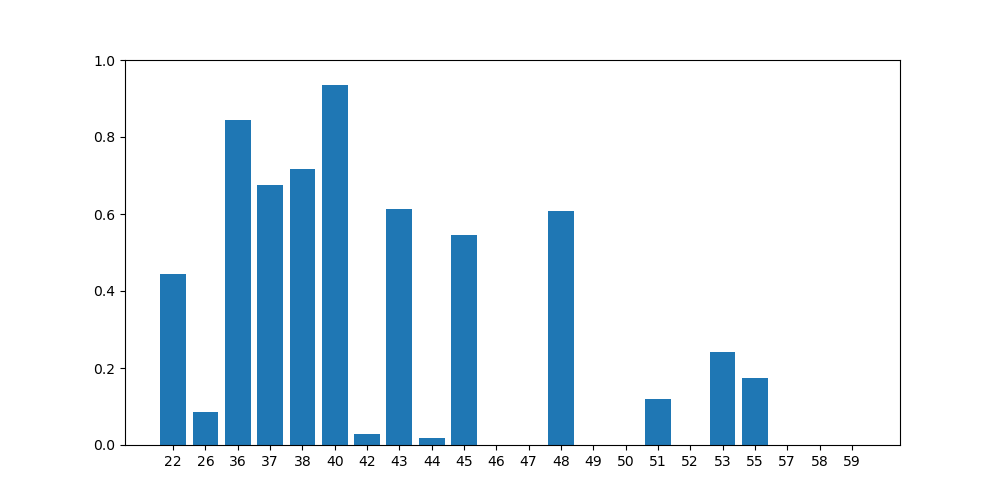
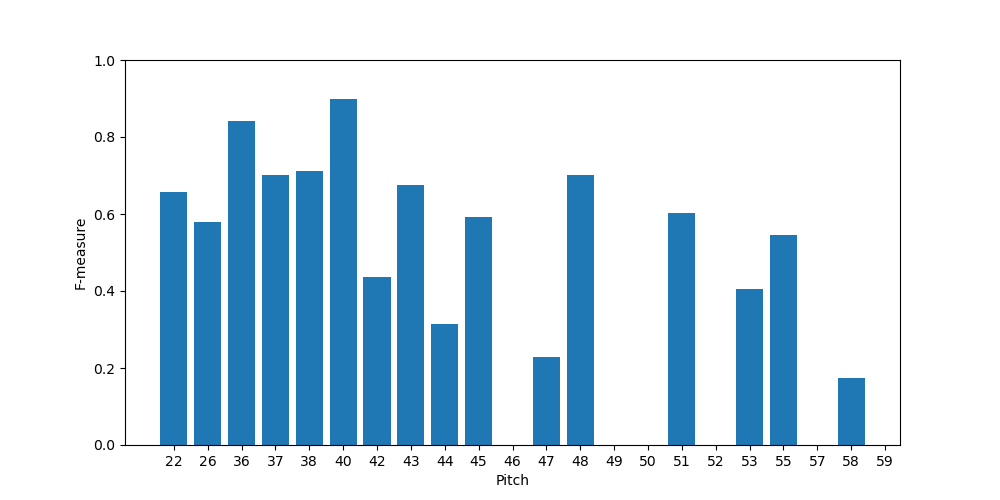
change evaluation

Changed region(s): [[0.155, 0.15, 0.899, 0.99], [0.062, 0.45, 0.093, 0.57]]

diff --git a/model.py b/model.py
@@ -6,7 +6,7 @@ from tensorflow.keras.models import Model
 import config as cfg
 import os
 from data import read_sample
-from utils import list_files, save_wav
+from utils import list_files, save_wav, plot_bar, plot_line
 import random
 import math
 import numpy as np
@@ -49,7 +49,8 @@ class BiLSTM(BaseModel):
 
     def build_model(self, input_shape=(None, cfg.INPUT_SIZE)):
         input = Input(shape=input_shape, dtype='float32')
-        x = Bidirectional(LSTM(128, return_sequences=True))(input)
+        x = Dense(128, activation='relu')(input)
+        x = Bidirectional(LSTM(128, return_sequences=True))(x)
         x = Dense(128, activation='relu')(x)
         preds = Dense(cfg.PITCH_NUM, activation='sigmoid')(x)
         self.model = Model(input, preds)
@@ -89,7 +90,7 @@ class BiLSTM(BaseModel):
         
         lr_scheduler = tf.keras.optimizers.schedules.ExponentialDecay(
             initial_learning_rate=1e-4,
-            decay_steps=10000,
+            decay_steps=trainning_steps,
             decay_rate=0.98,
             staircase=True)
 
@@ -104,71 +105,94 @@ class BiLSTM(BaseModel):
             init_epoch = self.last_epoch()
             print('\nLoad existing model from epoch %i\n' % init_epoch)
             self.load(os.path.join(self.checkpoint_dir, str(init_epoch)+'.h5'))
-        
+
         self.model.summary()
         history = self.model.fit_generator(self.data_generator(train_files, batch_size), 
                                         epochs=num_epochs, initial_epoch=init_epoch, steps_per_epoch=trainning_steps, 
                                         validation_data=self.data_generator(val_files), validation_steps=len(val_files),
                                         callbacks=[cp_callback, keras.callbacks.EarlyStopping(monitor='val_loss',
                                                                                             min_delta=0,
-                                                                                            patience=3,
+                                                                                            patience=10,
                                                                                             verbose=0,
                                                                                             mode='auto')])
+        plt.figure(figsize=(5, 2))
+        try:
+            plt.plot(history.history['loss'])
+            plt.plot(history.history['val_loss'])
+            plt.title('Model loss')
+            plt.ylabel('Loss')
+            plt.xlabel('Epoch')
+            plt.legend(['Train', 'Validation'], loc='upper right')
+            plt.savefig('history.png')
+        except Exception as e:
+            print("\nException caught:\n", e, "\n")
+        finally:
+            plt.close()
+
         return history
 
-    def predict(self, frames, threshold=0.5):
+    def predict(self, frames, threshold=None):
         if frames.ndim == 2:
             frames = np.array([frames], dtype=np.float32)
+        if threshold is None:
+            return self.model.predict(frames)
         activation = np.array(self.model.predict(frames) >= threshold, dtype=int)
         return activation, None
     
-    def evaluate(self, test_files, thresholds=np.array([0.5])):
+    def evaluate(self, val_files, test_files, thresholds=np.arange(0, 1, 0.1)):
         import mir_eval
-        from data import matrix2sequence, parse_sequence
-        metrics = np.zeros((thresholds.shape[0], cfg.PITCH_NUM, 3), dtype=float)
-        best_file, best_f = None, 0
-        for i in range(thresholds.shape[0]):
+        from data import matrix2sequence, parse_sequence, measure
+        
+        def test(files, thresholds):
+            best_file, best_f = None, 0
+            metrics = np.zeros((thresholds.shape[0], cfg.PITCH_NUM, 3), dtype=float)
             cnt = 0
-            sample_num = np.zeros((cfg.PITCH_NUM, 1))
-            for file in test_files:
+            for file in files:
                 cnt += 1
                 if cnt % 10 == 0:
                     print(cnt)
                 sample = read_sample(file)
-                y_pred, _ = self.predict(sample['Frames'], threshold=thresholds[i])
-                pred_sequence = matrix2sequence(y_pred[0], onset=y_pred[0])
-
                 gt_notes = sample['Sequence']
-                pred_notes = parse_sequence(pred_sequence)
 
-                sum, num = 0, 0
-                for j in cfg.PITCH_LIST:
-                    if (not j in gt_notes) and (not j in pred_notes):
-                        continue
-                    ref_intervals = gt_notes.get(j, np.zeros((0, 2), dtype=float))
-                    est_intervals = pred_notes.get(j, np.zeros((0, 2), dtype=float))
-                    p, r, f = mir_eval.transcription.onset_precision_recall_f1(ref_intervals, est_intervals)
+                y = self.predict(sample['Frames'])
+                for i in range(thresholds.shape[0]):
+                    y_pred = np.array(y >= thresholds[i], dtype=int)
+                    pred_sequence = matrix2sequence(y_pred[0], onset=y_pred[0])
+                    pred_notes = parse_sequence(pred_sequence)
 
-                    k = cfg.INDEX_DICT[j]
-                    sample_num[k, 0] += 1
-                    metrics[i, k, 0] += p
-                    metrics[i, k, 1] += r
-                    metrics[i, k, 2] += f
-                    sum += f
-                    num += 1
-                if sum / float(num) > best_f and len(sample['Audio']) / float(cfg.SAMPLE_RATE) > 3:
-                    best_f = sum / float(num)
-                    best_file = file
-                
-            metrics[i] /= sample_num
-        
-        plt.figure(figsize=(10, 5))
-        plt.ylim((0.0, 1.0))
-        plt.xticks(np.arange(cfg.PITCH_NUM), labels=cfg.PITCH_LIST)
-        plt.bar(np.arange(cfg.PITCH_NUM), metrics[0, :, 2])
-        #plt.show()
-        plt.savefig('eval.png')
-        plt.close()
+                    score, _, _, average_f = measure(gt_notes, pred_notes)
+                    metrics[i] += score
+
+                    if average_f > best_f and len(sample['Audio']) / float(cfg.SAMPLE_RATE) > 3:
+                        best_f = average_f
+                        best_file = file
+            
+            return metrics, best_file, best_f
+
+        metrics, _, _ = test(val_files, thresholds)
+        p, r, f = [], [], []
+        for i in range(thresholds.shape[0]):
+            TP = float(np.sum(metrics[i, :, 0]))
+            FP = np.sum(metrics[i, :, 1])
+            FN = np.sum(metrics[i, :, 2])
+            p.append(TP / (TP + FP))
+            r.append(TP / (TP + FN))
+            f.append(2*p[i]*r[i]/(p[i]+r[i]))
+    
+        plot_line(f, thresholds, 'thresh.png', 'Threshold', 'F-measure')
+        plot_line(r, p, 'pr.png', 'Precision', 'Recall')
+
+        best_idx = np.argmax(f)
+        print('Best_threshold', thresholds[best_idx])
+        best_thresh = thresholds[best_idx]
+
+        metrics, best_file, best_f = test(test_files, thresholds=np.array([best_thresh]))     
+        p = metrics[0, :, 0] / (metrics[0, :, 0] + metrics[0, :, 1])
+        r = metrics[0, :, 0] / (metrics[0, :, 0] + metrics[0, :, 2])
+        f = 2*p*r/(p+r)
+        plot_bar(p, np.arange(cfg.PITCH_NUM), cfg.PITCH_LIST, 'precicion.png', 'Pitch', 'Precicion')
+        plot_bar(r, np.arange(cfg.PITCH_NUM), cfg.PITCH_LIST, 'recall.png', 'Pitch', 'Recall')
+        plot_bar(f, np.arange(cfg.PITCH_NUM), cfg.PITCH_LIST, 'fscore.png', 'Pitch', 'F-measure')
         print('Best test: ', best_file, best_f)
         sample = read_sample(best_file)
         save_wav('best.wav', sample['Audio'], cfg.SAMPLE_RATE)
@@ -188,7 +212,21 @@ class SimpleLSTM(BiLSTM):
     
     def build_model(self, input_shape=(None, cfg.INPUT_SIZE)):
         input = Input(shape=input_shape, dtype='float32')
-        x = LSTM(128, return_sequences=True)(input)
+        x = Dense(128, activation='relu')(input)
+        x = LSTM(128, return_sequences=True)(x)
+        x = Dense(128, activation='relu')(x)
+        preds = Dense(cfg.PITCH_NUM, activation='sigmoid')(x)
+        self.model = Model(input, preds)
+
+class SimpleDNN(BiLSTM):
+    def __init__(self):
+        self.checkpoint_path = "models/DNN/{epoch:d}.h5"
+        self.checkpoint_dir = os.path.dirname(self.checkpoint_path)
+        self.model = None
+    
+    def build_model(self, input_shape=(None, cfg.INPUT_SIZE)):
+        input = Input(shape=input_shape, dtype='float32')
+        x = Dense(128, activation='relu')(input)
         x = Dense(128, activation='relu')(x)
         preds = Dense(cfg.PITCH_NUM, activation='sigmoid')(x)
         self.model = Model(input, preds)
@@ -218,7 +256,6 @@ class OaF_Drum(BiLSTM):
         x = Dropout(0.5)(x)
         if use_lstm:
             x = Bidirectional(LSTM(64, return_sequences=True))(x)
-            x = Dropout(0.5)(x)
         preds = Dense(cfg.PITCH_NUM, activation='sigmoid')(x)
         self.model = Model(input, preds)
 
@@ -227,6 +264,24 @@ if __name__ == "__main__":
     train_files = list_files(train_path, 'pickle')
     val_path = os.path.join(cfg.SEQ_SAMPLE_PATH, str(cfg.FRAME_TIME) + '_ms', 'validation')
     val_files = list_files(val_path, 'pickle')
+    test_path = os.path.join(cfg.SEQ_SAMPLE_PATH, str(cfg.FRAME_TIME) + '_ms', 'test')
+    test_files = list_files(test_path, 'pickle')
+
+    gpus = tf.config.experimental.list_physical_devices('GPU')
+    if gpus:
+        try:
+            # Currently, memory growth needs to be the same across GPUs
+            for gpu in gpus:
+                # tf.config.experimental.set_memory_growth(gpu, True)
+                logical_gpus = tf.config.experimental.list_logical_devices('GPU')
+                print(len(gpus), "Physical GPUs,", len(logical_gpus), "Logical GPUs")
+        except RuntimeError as e:
+            # Memory growth must be set before GPUs have been initialized
+            print(e)
     
     model = OaF_Drum()
-    model.train(train_files, val_files, batch_size=16)
+    #model.train(train_files, val_files, batch_size=16)
+    model.load('models/OaF_Drum_epoch31.h5')
+    model.evaluate(val_files, test_files, thresholds=np.arange(0, 1, 0.1))
+    #model = SimpleDNN()
+    #model.train(train_files, val_files)

diff --git a/main.py b/main.py
@@ -6,12 +6,12 @@ import scipy
 import config as cfg
 import utils
 
-def transcribe(m, input, output):
+def transcribe(m, input, output, threshold):
     import magenta.music as mm
     import data
     wav = utils.load_wav(input, cfg.SAMPLE_RATE)
     frames, _ = data.audio2frame(wav, cfg.FRAME_SIZE, cfg.SPECTROGRAM)
-    onset, _ = m.predict(frames)
+    onset, _ = m.predict(frames, threshold)
     sequence = data.matrix2sequence(onset[0], onset=onset[0])
     mm.sequence_proto_to_midi_file(sequence, output)
 
@@ -42,6 +42,8 @@ def main():
                         help="The wave input file for transcribe, only useful when task being 'trans'.")
     parser.add_argument('--output', '-o', 
                         help="The midi output file for transcribe, only useful when task being 'trans'.")
+    parser.add_argument('--threshold', '-T', default=0.5, type=float,
+                        help="The threshold for transcibe, only useful when task being 'trans'.")
     args = parser.parse_args()
 
     if args.task == 'pre':
@@ -75,7 +77,7 @@ def main():
         return -1
     
     if args.task == 'test':
-        m.evaluate(test_files)
+        m.evaluate(val_files, test_files)
     else:
         if args.input is None or args.output is None:
             print('\n\nError: --input and --output must be specified!!')
@@ -83,7 +85,7 @@ def main():
         if not os.path.exists(args.input):
             print('\n\nError: Input wav file does not exists.')
             return -1
-        transcribe(m, args.input, args.output)
+        transcribe(m, args.input, args.output, args.threshold)
 
 if __name__ == "__main__":
     main()

diff --git a/data.py b/data.py
@@ -21,6 +21,30 @@ import scipy
 import math
 import librosa
 import random
+import mir_eval
+
+def measure(gt_notes, pred_notes):
+    metrics = np.zeros((cfg.PITCH_NUM, 3), dtype=float)
+    for j in cfg.PITCH_LIST:
+        ref_intervals = gt_notes.get(j, np.zeros((0, 2), dtype=float))
+        est_intervals = pred_notes.get(j, np.zeros((0, 2), dtype=float))
+
+        match = mir_eval.transcription.match_note_onsets(ref_intervals, est_intervals)
+        TP = len(match)
+        FP = len(est_intervals) - TP
+        FN = len(ref_intervals) - TP
+        i = cfg.INDEX_DICT[j]
+        metrics[i, 0], metrics[i, 1], metrics[i, 2] = TP, FP, FN
+    
+    TP = float(np.sum(metrics[:, 0]))
+    FP = np.sum(metrics[:, 1])
+    FN = np.sum(metrics[:, 2])
+    
+    p = TP / (TP+FP)
+    r = TP / (TP+FN)
+    f = 2*p*r/(p+r)
+
+    return metrics, p, r, f
 
 def parse_sequence(sequence):
     notes = {}
@@ -291,7 +315,7 @@ def preprocess(dataset = tfds.load(name=cfg.TFDS_NAME, data_dir=cfg.TFDS_DATA_DI
             samples = split2batch(source_audio, source_sequence) if SPLIT == 'train' else [(source_audio, source_sequence)]
             preprocess_samples(samples, frame_size, frame_time, spectrogram, str(cnt), save_dir)
 
-            if synth and (not synth_except) and SPLIT != 'test':
+            if synth and (not synth_except) and SPLIT == 'train':
                 try:
                     synthed_audio = synthesis_audio(source_sequence)
                     synthed_samples = split2batch(synthed_audio, source_sequence) if SPLIT == 'train' else [(synthed_audio, source_sequence)]

diff --git a/utils.py b/utils.py
@@ -28,6 +28,27 @@ def plot_matrix(mat, x_range = None, y_range = None):
     plt.show()
     plt.close()
 
+def plot_bar(y, xrange, xlabel, filename, xtitle = None, ytitle = None):
+    plt.figure(figsize=(10, 5))
+    plt.ylim((0.0, 1.0))
+    plt.xticks(xrange, labels=xlabel)
+    plt.bar(xrange, y)
+    plt.xlabel(xtitle)
+    plt.ylabel(ytitle)
+    # plt.show()
+    plt.savefig(filename)
+    plt.close()
+
+def plot_line(y, x, filename, xtitle = None, ytitle = None):
+    plt.figure(figsize=(5, 5))
+    plt.ylim((0.0, 1.0))
+    plt.plot(x, y)
+    plt.xlabel(xtitle)
+    plt.ylabel(ytitle)
+    # plt.show()
+    plt.savefig(filename)
+    plt.close()
+
 def list_files(path, extension = ''):
     files = os.listdir(path)
     filtered = []

diff --git a/README.md b/README.md
@@ -24,8 +24,9 @@ The files are organized as follows:
 Arguments for ``main.py``:
 ```
 usage: main.py [-h] --task {pre,train,test,trans}
-               [--model {BiLSTM,OaF_Drum,SimpleLSTM}]
+               [--model {BiLSTM,OaF_Drum,SimpleDNN,SimpleLSTM}]
                [--model_path MODEL_PATH] [--input INPUT] [--output OUTPUT]
+               [--threshold THRESHOLD]
 
 Transcribe the drum solo from a wave file to a midi file.
 
@@ -36,7 +37,7 @@ optional arguments:
                         dataset; train: train the model; test: test the model
                         performance on testset; trans: transcibe using a
                         trained model.
-  --model {BiLSTM,OaF_Drum,SimpleLSTM}, -m {BiLSTM,OaF_Drum,SimpleLSTM}
+  --model {BiLSTM,OaF_Drum,SimpleDNN,SimpleLSTM}, -m {BiLSTM,OaF_Drum,SimpleDNN,SimpleLSTM}
                         The type of model used.
   --model_path MODEL_PATH, -p MODEL_PATH
                         The model file used for 'trans' and 'test'.
@@ -46,6 +47,9 @@ optional arguments:
   --output OUTPUT, -o OUTPUT
                         The midi output file for transcribe, only useful when
                         task being 'trans'.
+  --threshold THRESHOLD, -T THRESHOLD
+                        The threshold for transcibe, only useful when task
+                        being 'trans'.
 ```
 
 Typical usages of the program:
@@ -74,7 +78,7 @@ python main.py -t test -m SimpleLSTM -p path_to_savedModel.h5
 ```
 5. Transcribe a solo drum music to MIDI.
 ```
-python main.py -t trans -m SimpleLSTM -p path_to_savedModel.h5 -i input.wav -o output.mid
+python main.py -t trans -m SimpleLSTM -p path_to_savedModel.h5 -i input.wav -o output.mid -T <threshold>
 ```
 ## Demo
 1. Download the pretrained model (``OaF_Drum_epoch31.h5``) of modified [OaF_Drum](https://magenta.tensorflow.org/oaf-drums) and the test file (``test.wav``, a synthesized wav using the midi file from the testset of [Groove MIDI Dataset](https://magenta.tensorflow.org/datasets/groove)) from the link below.
@@ -83,11 +87,11 @@ https://iastate.box.com/s/3p2zb7r5822aersm4t6pp38uwoxazxvu
 ```
 2. Run the trans task
 ```
-python main.py -t trans -m OaF_Drum -p OaF_Drum_epoch31.h5 -i test.wav -o test.mid
+python main.py -t trans -m OaF_Drum -p OaF_Drum_epoch31.h5 -i test.wav -o test.mid -T 0.3
 ```
 3. A ``test.mid`` MIDI file will generate which should be the same as the ``test.mid`` on the link above.
 
-The F1-score (average per piece) of the pretrained model on the testing set for each pitch :
+The F1-score of the pretrained model on the testing set for each pitch :
 ![avatar](eval.png)
 ## Reference
 Part of this work uses dataset from
